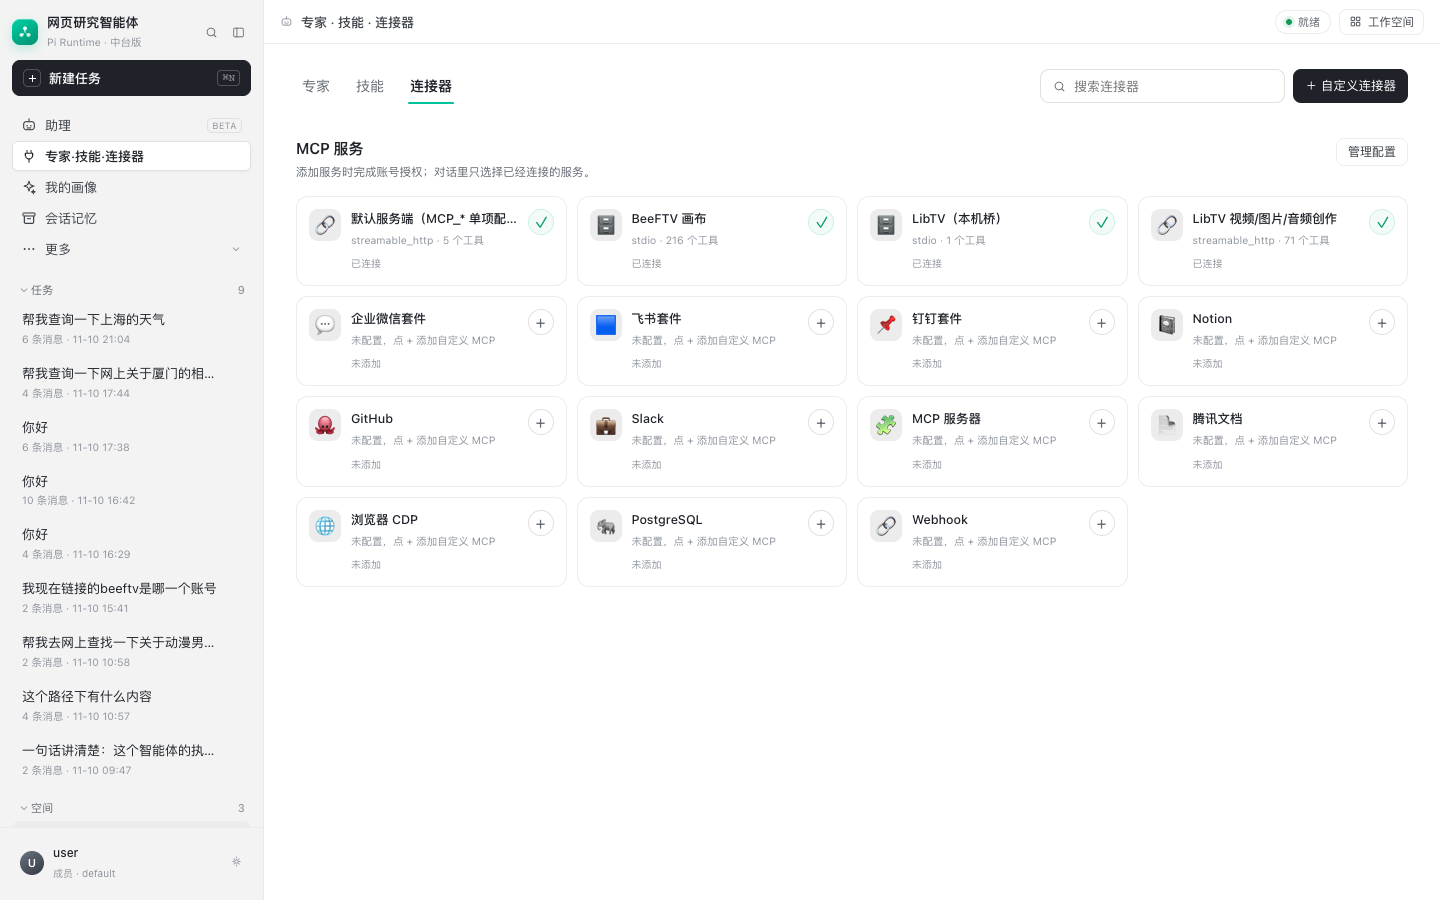
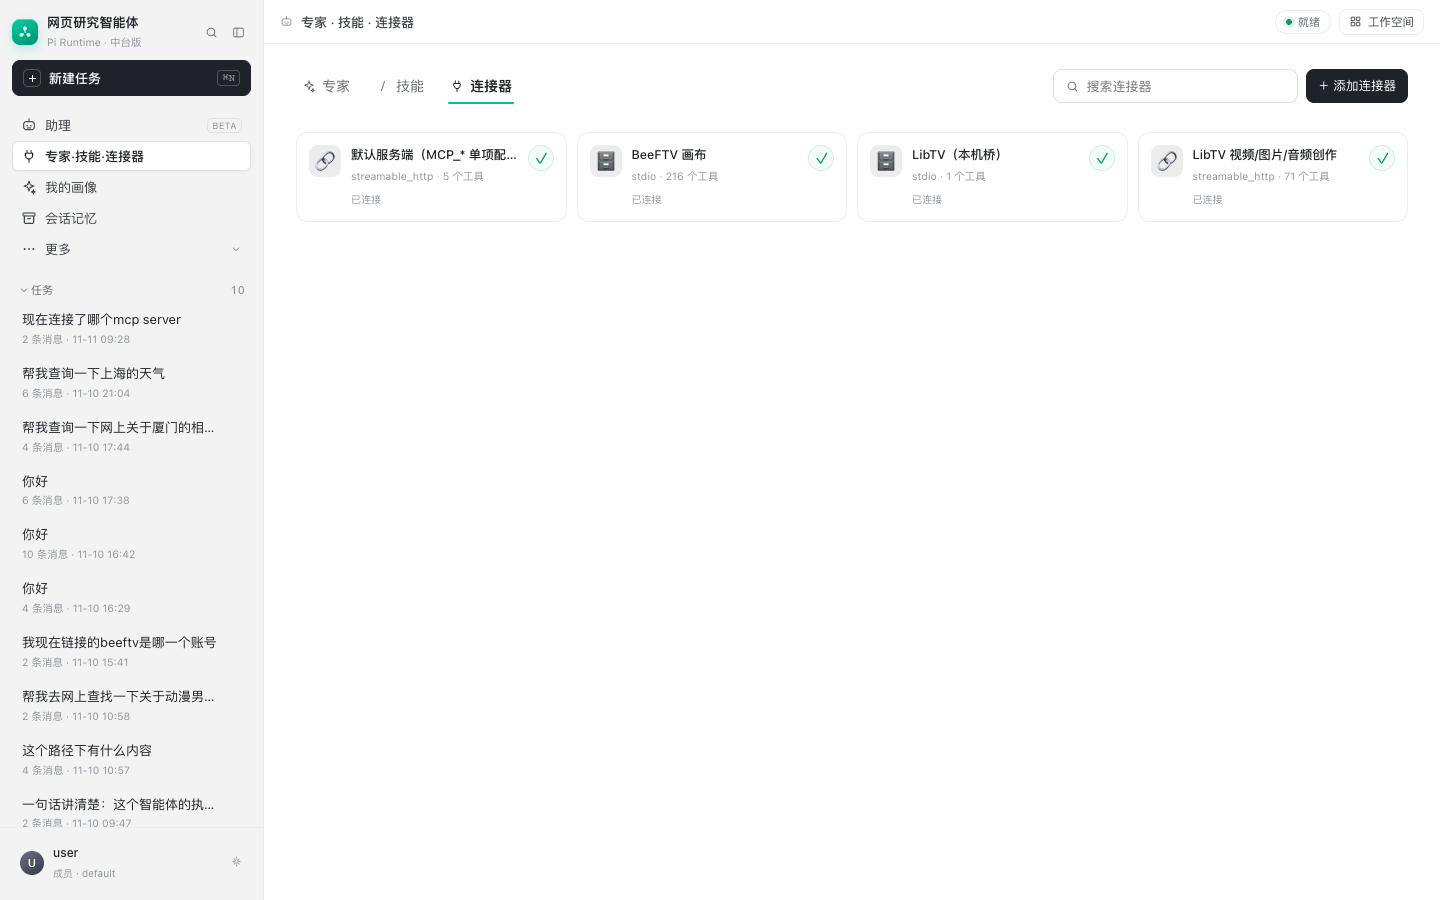
连接器工具栏对齐 WorkBuddy：去重标题、只显示已有服务

diff --git a/src/webpage_agent/api/web/index.html b/src/webpage_agent/api/web/index.html
@@ -260,11 +260,7 @@ a{color:var(--brand);text-decoration:none}
 
 
 /* 连接器 Hub：MCP 卡片 */
-.hub-mcp{padding:10px 0 24px}
-.hub-mcp-head{display:flex;align-items:flex-start;gap:12px;margin:4px 0 14px}
-.hub-mcp-title{font-size:15px;font-weight:600;color:var(--ink)}
-.hub-mcp-sub{font-size:11.5px;color:var(--muted);margin-top:4px}
-.hub-mcp-manage{margin-left:auto;height:32px;font-size:12px}
+.hub-mcp{padding:8px 0 24px}
 .hub-mcp-grid{display:grid;grid-template-columns:repeat(4,minmax(0,1fr));gap:10px}
 @media (max-width:1100px){.hub-mcp-grid{grid-template-columns:repeat(3,minmax(0,1fr))}}
 @media (max-width:760px){.hub-mcp-grid{grid-template-columns:repeat(2,minmax(0,1fr))}}
@@ -807,7 +803,8 @@ body {
 .hub-head { display: flex; align-items: center; gap: 16px; flex-wrap: wrap; margin-bottom: 18px; }
 .hub-title { font-size: 20px; font-weight: 600; margin: 0; letter-spacing: -.2px; }
 .hub-tabs { display: flex; gap: 18px; margin-left: 4px; }
-.hub-tab { position: relative; height: 34px; padding: 0 2px; border: 0; background: none; color: var(--muted); font-size: 13.5px; cursor: pointer; }
+.hub-tab { position: relative; display: inline-flex; align-items: center; gap: 6px; height: 34px; padding: 0 2px; border: 0; background: none; color: var(--muted); font-size: 13.5px; cursor: pointer; }
+.hub-tab .ic { width: 14px; height: 14px; }
 .hub-tab.active { color: var(--ink); font-weight: 600; }
 .hub-tab.active::after { content: ""; position: absolute; left: 0; right: 0; bottom: 0; height: 2px; border-radius: 2px; background: var(--brand); }
 .hub-actions { margin-left: auto; display: flex; align-items: center; gap: 8px; }
@@ -1325,11 +1322,10 @@ body {
     <section class="hub-view" id="hubView" hidden aria-label="技能与连接器">
       <div class="hub-wrap">
         <div class="hub-head">
-          <h2 class="hub-title">专家</h2>
           <div class="hub-tabs" role="tablist">
-            <button class="hub-tab active" data-kind="expert">专家</button>
-            <button class="hub-tab" data-kind="skill">技能</button>
-            <button class="hub-tab" data-kind="connector">连接器</button>
+            <button class="hub-tab active" data-kind="expert"><svg class="ic sm"><use href="#i-spark"/></svg>专家</button>
+            <button class="hub-tab" data-kind="skill"><svg class="ic sm"><use href="#i-slash"/></svg>技能</button>
+            <button class="hub-tab" data-kind="connector"><svg class="ic sm"><use href="#i-plug"/></svg>连接器</button>
           </div>
           <div class="hub-actions">
             <div class="hub-search">
@@ -1345,13 +1341,6 @@ body {
 
         <div id="hubSkillsView">
         <div class="hub-mcp" id="hubMcpPanel" hidden>
-          <div class="hub-mcp-head">
-            <div>
-              <div class="hub-mcp-title">MCP 服务</div>
-              <div class="hub-mcp-sub">添加服务时完成账号授权；对话里只选择已经连接的服务。</div>
-            </div>
-            <button class="ghost hub-mcp-manage" id="hubMcpManage">管理配置</button>
-          </div>
           <div class="hub-mcp-grid" id="hubMcpGrid"></div>
         </div>
         <div class="hub-featured">
@@ -5142,7 +5131,8 @@ setInterval(async () => {
       const res = checkAuth(await fetch(PREFIX + '/connectors', {cache: 'no-store'}));
       if (!res.ok) throw new Error('HTTP ' + res.status);
       const data = await res.json();
-      hubMcpItems = data.items || [];
+      // 只展示中台真的已经配置的 MCP；目录里未配置的通用连接器不在这里充数。
+      hubMcpItems = (data.items || []).filter(x => x.configured);
       renderHubMcp();
     } catch (err) {
       grid.innerHTML = `<div class="hub-empty">读取失败：${esc(err.message || '网络错误')}</div>`;
@@ -5154,7 +5144,7 @@ setInterval(async () => {
     const q = hubMcpQuery.trim().toLowerCase();
     const items = q ? hubMcpItems.filter(x => (x.name || x.id || '').toLowerCase().includes(q)) : hubMcpItems;
     if (!items.length) {
-      grid.innerHTML = '<div class="hub-empty">没有匹配的 MCP 服务。</div>';
+      grid.innerHTML = '<div class="hub-empty">中台还没有已配置的 MCP 服务。点「添加连接器」开始。</div>';
       return;
     }
     grid.replaceChildren(...items.map(item => {
@@ -5242,10 +5232,8 @@ setInterval(async () => {
     $id('hubExpertsView').hidden = !expert;
     $id('hubSkillsView').hidden = expert;
     $id('hubMcpPanel').hidden = !connector;
-    document.querySelector('.hub-title').hidden = connector;
-    document.querySelector('.hub-title').textContent = '专家';
     $id('hubSearch').placeholder = connector ? '搜索连接器' : '搜索技能';
-    $id('hubAddBtn').textContent = connector ? '＋ 自定义连接器' : '＋ 添加技能';
+    $id('hubAddBtn').textContent = connector ? '＋ 添加连接器' : '＋ 添加技能';
     $id('hubInstalledBtn').hidden = connector;
     const hideSkillBits = connector;
     document.querySelector('.hub-featured').hidden = hideSkillBits;
@@ -5443,7 +5431,6 @@ setInterval(async () => {
     $id('hubInstalledBtn').classList.toggle('on', state.installed);
     loadHub();
   };
-  $id('hubMcpManage').onclick = () => openMcpManager();
   $id('hubAddBtn').onclick = () => {
     if (state.kind === 'connector') { openMcpManager(); return; }
     const sel = $id('addSkillCategory');

diff --git a/docs/mcp-management.md b/docs/mcp-management.md
@@ -135,8 +135,9 @@ GET  /api/mcp/servers    系统 + 自定义合并列表
 
 连接器入口现在在「专家 · 技能 · 连接器」的主工具栏：
 
-- 「连接器」标签显示 MCP 服务卡片；
-- 右上「＋ 自定义连接器」打开 MCP 服务管理；
+- 「连接器」标签只显示中台**已经配置**的 MCP 服务卡片，不再混入目录里的
+  未配置连接器；
+- 右上「＋ 添加连接器」打开 MCP 服务管理；
 - 卡片上的 `+` 负责添加/连接，`授权`负责账号绑定，已连接显示 `✓`；
 - 输入框里的连接器面板只负责“把已连接的服务加入当前会话”，
   不会在这里触发账号绑定；
